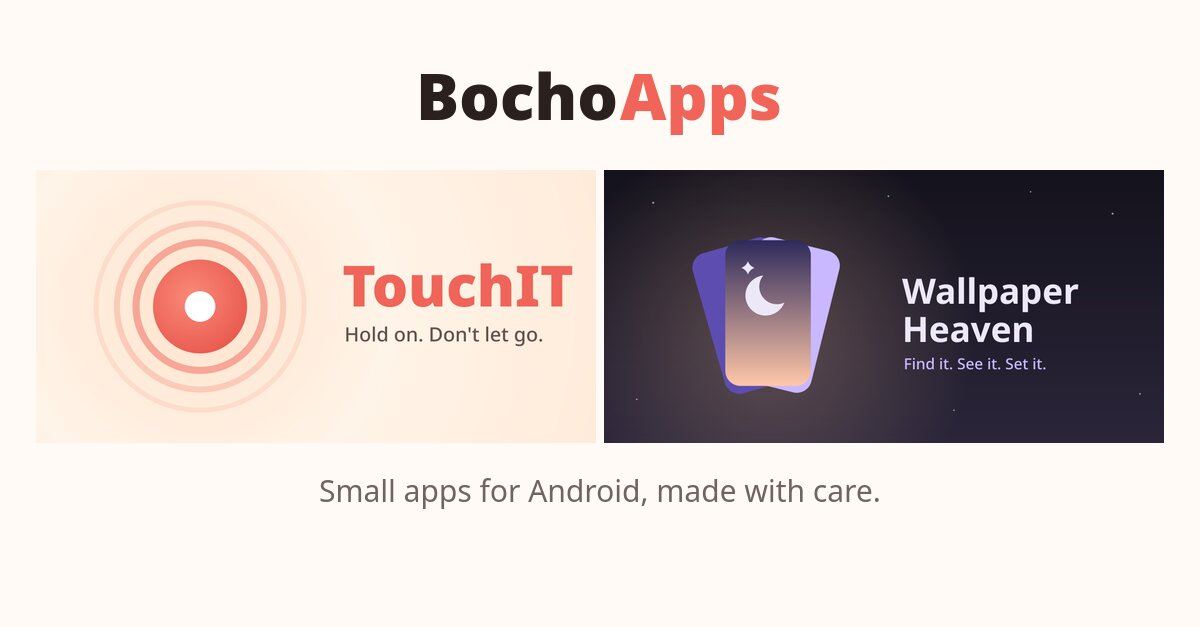
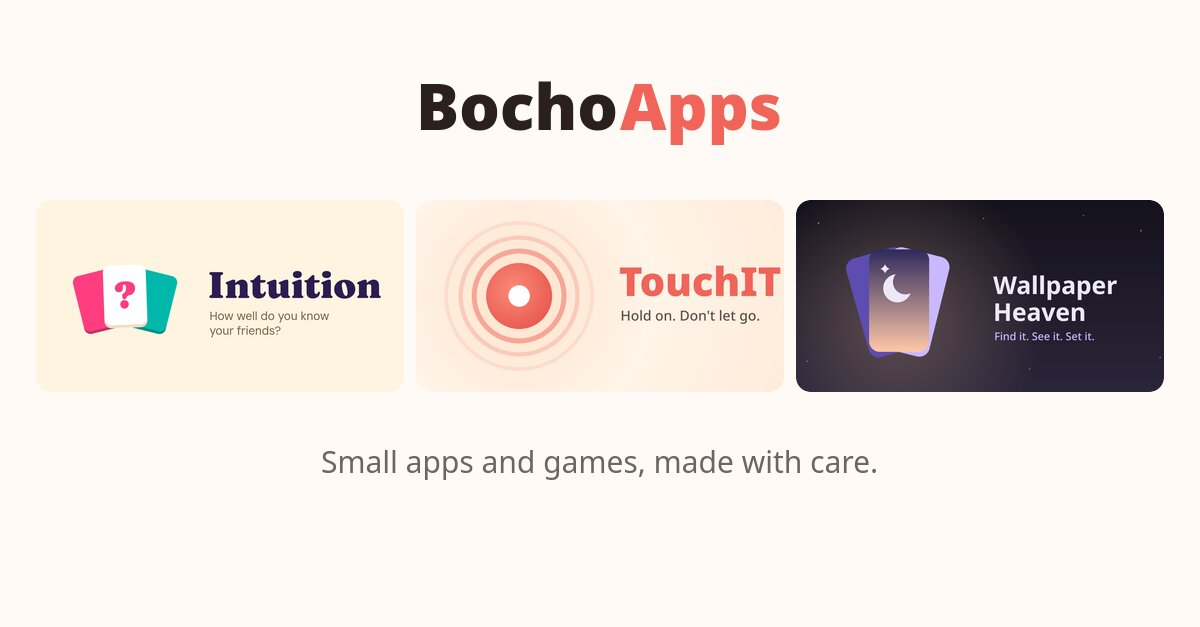
Home preview image: add Intuition

Changed region(s): [[0.0617, 0.2727, 0.9867, 0.8182], [0.3392, 0.1212, 0.6475, 0.2424]]

diff --git a/index.html b/index.html
@@ -13,7 +13,7 @@
 <meta property="og:image" content="https://bochoapps.com/img/og.jpg">
 <meta property="og:image:width" content="1200">
 <meta property="og:image:height" content="627">
-<meta property="og:image:alt" content="BochoApps: TouchIT and Wallpaper Heaven">
+<meta property="og:image:alt" content="BochoApps: Intuition, TouchIT and Wallpaper Heaven">
 <meta name="twitter:card" content="summary_large_image">
 <link rel="icon" type="image/png" href="favicon.png">
 <link rel="apple-touch-icon" href="touchit/img/icon-180.png">
